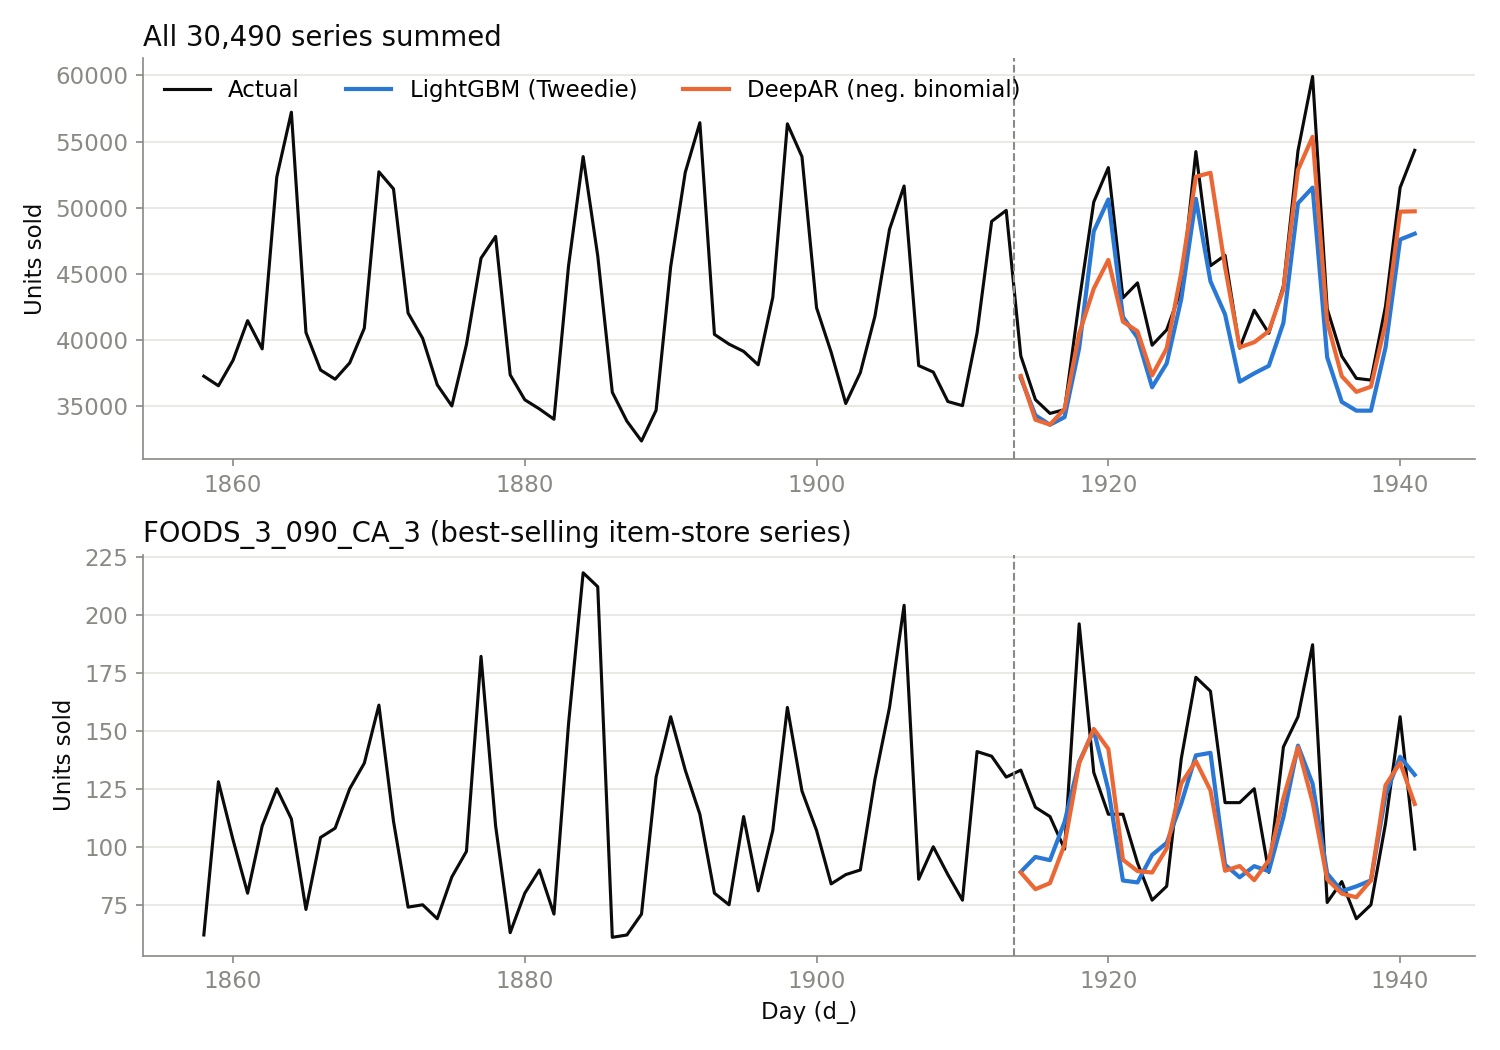
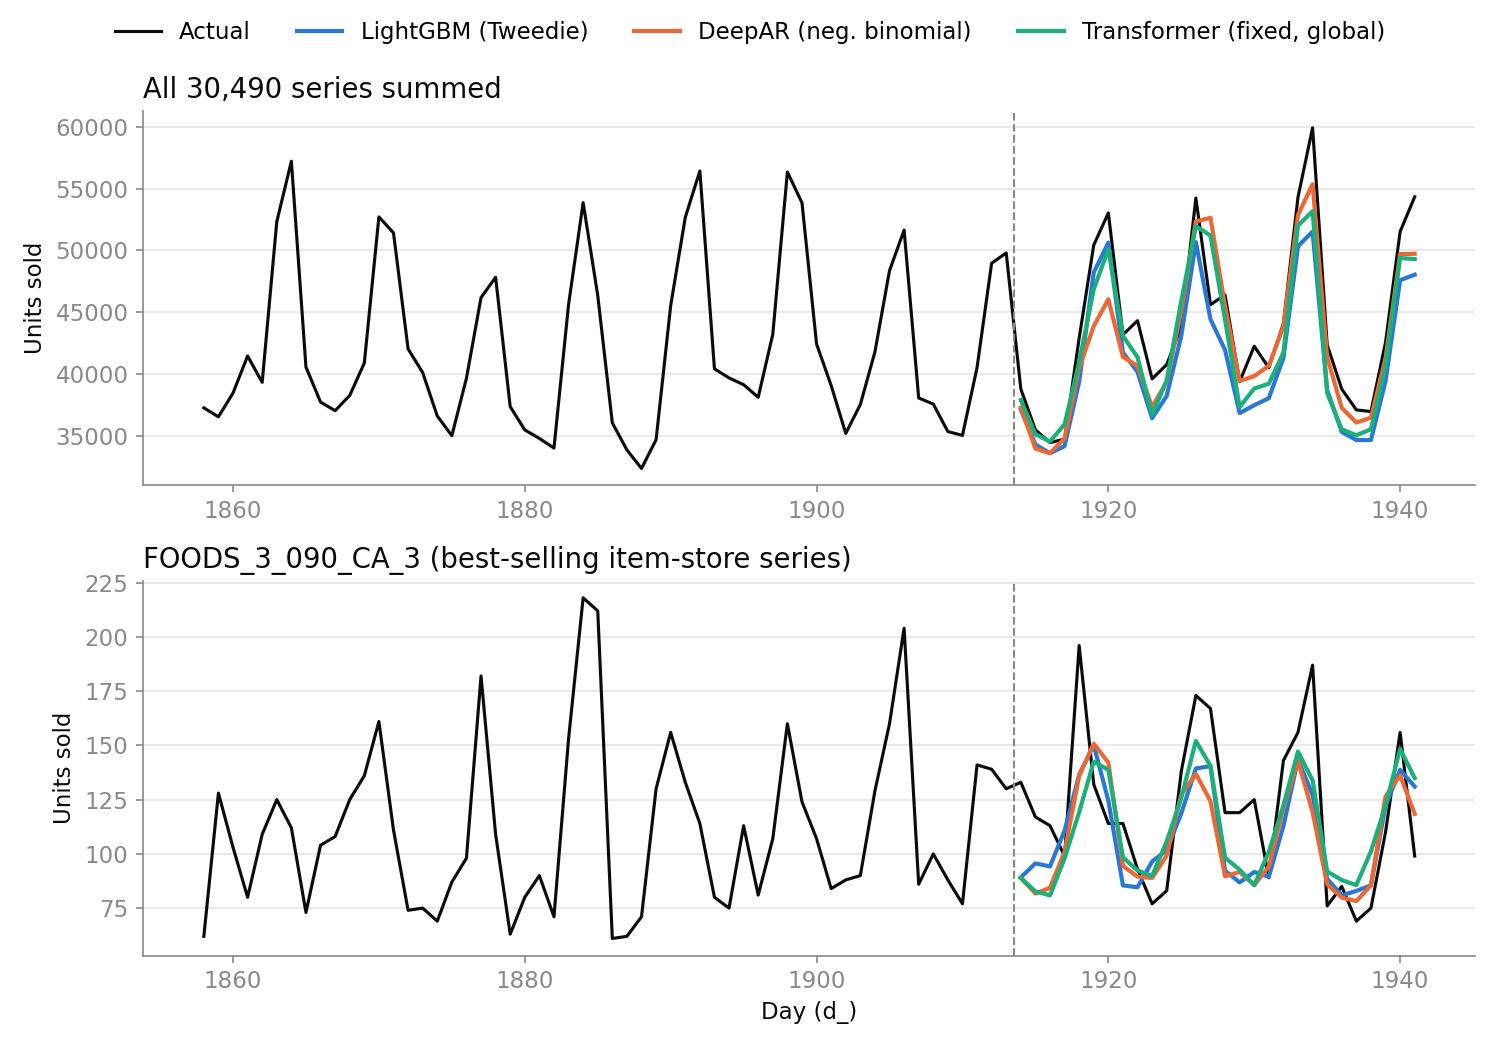
Fix the capstone Transformer and add it to the global comparison
- m5/transformer.py: attention over time (batch_first=True), direct 28-day NB forecast, trained on all series
- README: document the capstone bugs (attention across the batch, decoder on the oldest day, loss on reconstructed inputs)
- fixed Transformer scores 0.650 test WRMSSE, in line with DeepAR (0.632) and LightGBM (0.655)

diff --git a/scripts/transformer_global.py b/scripts/transformer_global.py
@@ -1,0 +1,92 @@
+"""Train the global Transformer (direct 28-day negative-binomial forecast) and score a split.
+
+    python scripts/transformer_global.py --split valid
+    python scripts/transformer_global.py --split test
+"""
+import argparse
+import time
+
+import numpy as np
+import torch
+
+from m5.data import HORIZON, SPLITS, load_sales
+from m5.deepar_nb import Arrays, nb_nll
+from m5.results import save_forecast
+from m5.transformer import TransformerNB
+
+parser = argparse.ArgumentParser()
+parser.add_argument("--split", default="valid", choices=list(SPLITS))
+parser.add_argument("--steps", type=int, default=12000)
+parser.add_argument("--batch", type=int, default=512)
+parser.add_argument("--context", type=int, default=112)
+parser.add_argument("--lr", type=float, default=3e-4)
+parser.add_argument("--seed", type=int, default=0)
+parser.add_argument("--name", default="transformer_nb")
+args = parser.parse_args()
+
+torch.manual_seed(args.seed)
+rng = np.random.default_rng(args.seed)
+device = torch.device("mps" if torch.backends.mps.is_available() else "cuda" if torch.cuda.is_available() else "cpu")
+
+sales = load_sales()
+A = Arrays(sales)
+start = SPLITS[args.split] - 1
+C, W = args.context, args.context + HORIZON
+
+model = TransformerNB(A.static[:, 0].max() + 1, A.static[:, 1].max() + 1, A.static[:, 2].max() + 1,
+                      context=C, horizon=HORIZON).to(device)
+opt = torch.optim.AdamW(model.parameters(), lr=args.lr, weight_decay=0.01)
+sched = torch.optim.lr_scheduler.OneCycleLR(opt, max_lr=args.lr, total_steps=args.steps, pct_start=0.05)
+
+earliest_t0 = A.first_sale + 1
+eligible = np.where(earliest_t0 + W <= start)[0]
+volume = A.y[eligible, :start].mean(1) + 1
+p_series = volume / volume.sum()          # same window sampling as DeepAR
+
+
+def tensor(a, dtype=torch.float32):
+    return torch.as_tensor(a, dtype=dtype, device=device)
+
+
+def batch_tensors(rows, t0):
+    """Windows rows × [t0, t0 + C + 28): past sales, level, covariates for all days, future targets."""
+    idx = t0[:, None] + np.arange(W)[None, :]
+    y = tensor(A.y[rows[:, None], idx])
+    level = y[:, :C].mean(1, keepdim=True)
+    return (y[:, :C] / (level + 1), level, tensor(A.real[rows[:, None], idx]), tensor(A.wday[idx], torch.long),
+            tensor(A.month[idx], torch.long), tensor(A.static[rows], torch.long)), y[:, C:]
+
+
+t_start = time.time()
+model.train()
+for step in range(1, args.steps + 1):
+    rows = rng.choice(eligible, args.batch, p=p_series)
+    t0 = rng.integers(earliest_t0[rows], start - W + 1)
+    inputs, target = batch_tensors(rows, t0)
+    mu, alpha = model(*inputs)
+    loss = nb_nll(target, mu, alpha).mean()
+    opt.zero_grad()
+    loss.backward()
+    torch.nn.utils.clip_grad_norm_(model.parameters(), 1.0)
+    opt.step()
+    sched.step()
+    if step % 500 == 0:
+        print(f"step {step:6d}  nll {loss.item():.4f}  {time.time() - t_start:.0f}s", flush=True)
+
+
+@torch.no_grad()
+def forecast(chunk=512):
+    """Direct forecast: the NB mean for each of the 28 days (no autoregressive rollout needed)."""
+    model.eval()
+    out = np.zeros((len(sales), HORIZON), np.float32)
+    for lo in range(0, len(sales), chunk):
+        rows = np.arange(lo, min(lo + chunk, len(sales)))
+        # the target slice past LAST_DAY is never used; covariates for the forecast days are known
+        inputs, _ = batch_tensors(rows, np.full(len(rows), start - C))
+        mu, _ = model(*inputs)
+        out[rows] = mu.cpu().numpy()
+    return out
+
+
+save_forecast(sales, args.name, args.split, forecast())
+torch.save(model.state_dict(), f"results/{args.name}_{args.split}.pt")

diff --git a/m5/transformer.py b/m5/transformer.py
@@ -1,0 +1,49 @@
+"""Global Transformer encoder forecaster (the capstone's model, fixed and trained across all series).
+
+The sequence is 112 past days followed by 28 future days. Past tokens carry scaled sales; future tokens
+carry only what is known in advance (calendar, prices, SNAP) plus a flag. Self-attention runs over the
+time axis (batch_first=True), and the 28 future tokens are decoded directly into negative-binomial
+parameters, using the same μ parameterization as m5/deepar_nb.py so the two models differ only in
+architecture.
+
+Capstone bugs this fixes:
+  * nn.TransformerEncoderLayer defaulted to batch_first=False while inputs were (batch, time, features),
+    so attention mixed the 10 windows in a batch instead of the 196 days of a window;
+  * the forecast was decoded from x[:, -196, :], i.e. the oldest day of the window only;
+  * the loss covered all 224 outputs (196 reconstructed inputs + 28 forecasts).
+"""
+import torch
+import torch.nn as nn
+import torch.nn.functional as F
+
+
+class TransformerNB(nn.Module):
+    def __init__(self, n_items, n_depts, n_stores, n_real=5, context=112, horizon=28,
+                 d_model=64, nhead=4, layers=3, dropout=0.1):
+        super().__init__()
+        self.context, self.horizon = context, horizon
+        self.item = nn.Embedding(n_items, 16)
+        self.dept = nn.Embedding(n_depts, 4)
+        self.store = nn.Embedding(n_stores, 4)
+        self.wday = nn.Embedding(7, 3)
+        self.month = nn.Embedding(12, 3)
+        n_in = 1 + 1 + 1 + n_real + 3 + 3 + 16 + 4 + 4   # sales, is_future, log level, covariates, embeddings
+        self.proj = nn.Linear(n_in, d_model)
+        self.pos = nn.Parameter(torch.randn(context + horizon, d_model) * 0.02)
+        layer = nn.TransformerEncoderLayer(d_model, nhead, 4 * d_model, dropout, batch_first=True, norm_first=True)
+        self.encoder = nn.TransformerEncoder(layer, layers)
+        self.head = nn.Linear(d_model, 3)
+
+    def forward(self, sales_scaled, level, real, wday, month, static):
+        """sales_scaled: (B, context) past sales / (level + 1); real/wday/month cover context + horizon."""
+        B, T = real.shape[:2]
+        sales = torch.cat([sales_scaled, sales_scaled.new_zeros(B, self.horizon)], 1).unsqueeze(-1)
+        is_future = torch.cat([real.new_zeros(B, self.context), real.new_ones(B, self.horizon)], 1).unsqueeze(-1)
+        s = torch.cat([self.item(static[:, 0]), self.dept(static[:, 1]), self.store(static[:, 2])], -1)
+        x = torch.cat([sales, is_future, torch.log1p(level).expand(-1, T).unsqueeze(-1), real,
+                       self.wday(wday), self.month(month), s.unsqueeze(1).expand(-1, T, -1)], -1)
+        h = self.encoder(self.proj(x) + self.pos)[:, -self.horizon:]
+        out = self.head(h)
+        mu = F.softplus(out[..., 0] + 0.5413) * level + F.softplus(out[..., 2] - 3)
+        alpha = F.softplus(out[..., 1]) / (level + 1).sqrt() + 1e-4
+        return mu, alpha

diff --git a/scripts/plots.py b/scripts/plots.py
@@ -9,7 +9,8 @@ from m5.data import HORIZON, RESULTS_DIR, SPLITS, load_sales, sales_matrix
 
 ASSETS = RESULTS_DIR.parent / "assets"
 INK, MUTED, GRID = "#0b0b0b", "#8a8984", "#e6e5e1"
-SERIES = {"lightgbm_tweedie": ("LightGBM (Tweedie)", "#2a78d6"), "deepar_nb": ("DeepAR (neg. binomial)", "#eb6834")}
+SERIES = {"lightgbm_tweedie": ("LightGBM (Tweedie)", "#2a78d6"), "deepar_nb": ("DeepAR (neg. binomial)", "#eb6834"),
+          "transformer_nb": ("Transformer (fixed, global)", "#1baf7a")}
 LABELS = {"zeros": "All zeros", "naive": "Naive (last day)", "seasonal_naive": "Seasonal naive",
           "moving_avg_28": "28-day moving average", "lightgbm_l2": "LightGBM (MSE loss)",
           **{k: v[0] for k, v in SERIES.items()}}
@@ -55,15 +56,18 @@ for ax, (title, pick) in zip(axes, panels):
     ax.set_title(title, loc="left", color=INK)
     ax.yaxis.grid(True, color=GRID)
     ax.set_ylabel("Units sold")
-axes[0].legend(frameon=False, loc="upper left", ncol=3)
+handles, labels = axes[0].get_legend_handles_labels()
+fig.legend(handles, labels, frameon=False, loc="upper center", ncol=len(labels))
 axes[1].set_xlabel("Day (d_)")
-fig.tight_layout()
+fig.tight_layout(rect=(0, 0, 1, 0.95))
 fig.savefig(ASSETS / "forecasts_test.png", dpi=150)
 
 # 3. single-item RMSE, same item and 28 days as the capstone notebooks
 actual = y[item, start:start + HORIZON]
 rows = {"Transformer, pretrained + fine-tuned (capstone)": 1.2406}
 for m in ["moving_avg_28", "seasonal_naive", *SERIES]:
+    if not (RESULTS_DIR / "forecasts" / f"{m}_test.npy").exists():
+        continue
     f = np.load(RESULTS_DIR / "forecasts" / f"{m}_test.npy")[item]
     rows[LABELS[m]] = float(np.sqrt(((actual - f) ** 2).mean()))
 print("| Model | RMSE |\n|---|---|")

diff --git a/README.md b/README.md
@@ -11,7 +11,8 @@ UC Berkeley capstone (2023–2024) on deep-learning forecasting for the **M5 Wal
   28-day moving average** on that item (RMSE 1.24 vs 1.08). It was also only ever evaluated on that single item.
 - The follow-up evaluates every model on **all 30,490 series with the official M5 metric (WRMSSE)**, against simple
   baselines. There, **global models** (one model trained across all series) beat seasonal naive by **23–27%**.
-- A global **DeepAR** with a negative-binomial likelihood and a global **LightGBM** end up roughly tied (0.63–0.67).
+- A global **DeepAR** (LSTM), the **capstone Transformer with its bugs fixed** and trained globally, and a global
+  **LightGBM** all end up roughly tied (0.63–0.67). Attention did not beat the LSTM or the trees here.
 
 ![Test WRMSSE by model](assets/wrmsse_test.png)
 
@@ -23,6 +24,7 @@ Lower is better; WRMSSE averages 12 aggregation levels, from total sales down to
 | Model | Valid WRMSSE | Test WRMSSE | vs. seasonal naive (test) |
 |---|---|---|---|
 | **DeepAR, negative binomial** (seed 0 / seed 1) | 0.545 / – | **0.632 / 0.662** | −27% / −24% |
+| **Transformer, fixed and global** | 0.574 | **0.650** | −25% |
 | **LightGBM, MSE loss** | 0.532 | **0.655** | −25% |
 | **LightGBM, Tweedie loss** | 0.520 | **0.671** | −23% |
 | Seasonal naive (repeat last week) | 0.923 | 0.870 | – |
@@ -35,13 +37,14 @@ implementation, the naive and seasonal-naive scores match the values commonly re
 ![Forecasts vs actuals](assets/forecasts_test.png)
 
 **What the numbers say**
-- **Global training is what matters.** Both global models are far ahead of the baselines, and the gap between them
-  (0.63 vs 0.67) is about the same size as DeepAR's seed-to-seed variation (0.632 vs 0.662).
+- **Global training is what matters, not the architecture.** All three global models are far ahead of the
+  baselines, and the spread between them (0.63–0.67) is about the same size as DeepAR's seed-to-seed variation
+  (0.632 vs 0.662). The fixed Transformer (attention over time) lands in the middle of that band.
 - **The loss function mattered less than expected.** Tweedie is the textbook choice for zero-heavy counts, but LightGBM
   with plain MSE did slightly better on test (0.655 vs 0.671) and slightly worse on validation. Loss was not the main problem.
 - **On a single high-volume series, the gain is small.** For the best seller (bottom panel above), both models
-  track the weekly cycle but are roughly level with seasonal naive (RMSE 26.8 LightGBM, 28.4 DeepAR, 26.6 seasonal
-  naive, 35.6 moving average). The advantage comes from being consistently good across all 30,490 series.
+  track the weekly cycle but are roughly level with seasonal naive (RMSE 26.8 LightGBM, 27.9 Transformer, 28.4 DeepAR,
+  26.6 seasonal naive, 35.6 moving average). The advantage comes from being consistently good across all 30,490 series.
 - **One sparse item can't rank models.** On the capstone's example item, every model forecasts roughly the item's
   average level:
 
@@ -49,6 +52,7 @@ implementation, the naive and seasonal-naive scores match the values commonly re
   |---|---|
   | 28-day moving average | 1.08 |
   | DeepAR, negative binomial (global) | 1.13 |
+  | Transformer, fixed (global) | 1.13 |
   | LightGBM, Tweedie (global) | 1.15 |
   | Transformer, pretrained + fine-tuned (capstone) | 1.24 |
   | Seasonal naive | 1.66 |
@@ -64,6 +68,21 @@ implementation, the naive and seasonal-naive scores match the values commonly re
 | Judged by a plot and RMSE on one item | WRMSSE on all series, 12 aggregation levels (`m5/wrmsse.py`) |
 | No baselines | Naive, seasonal naive, moving average |
 | No separate validation set | Validation split for tuning; test touched once per model |
+
+**Why the capstone Transformer produced a flat line.** Re-reading the notebooks turned up three bugs in the model
+itself:
+1. **Attention ran across the batch, not across time.** Inputs were `(batch, 196 days, features)`, but
+   `nn.TransformerEncoderLayer` was left at its default `batch_first=False` (notebooks 03–07), so it treated the
+   batch as the sequence.
+   Self-attention mixed the 10 random windows in each batch and never compared days within a window, and the
+   positional encoding was indexed by batch position instead of day.
+2. **The forecast was decoded from the oldest day.** `self.decoder(x[:, -196, :])` (notebooks 04–07) picks index
+   −196 of a 196-day window, i.e. day 0, the one furthest from the forecast period.
+3. **Most of the loss was spent reconstructing the input.** The model output 224 values (196 input days + 28
+   forecast days) and the MSE loss covered all of them.
+
+With no access to recent days, the best the model could do was predict the item's average, which is the flat
+line in the capstone chart (see [The original capstone](#the-original-capstone)). The fixed version, trained globally, is in `m5/transformer.py` (results above).
 
 **Debugging notes from getting DeepAR to work.** The first global DeepAR scored 2.47, worse than naive. The causes were:
 1. **A price outlier.** The raw week-over-week price ratio reached 897× for one item. It is now a log ratio clipped to ±1.
@@ -84,11 +103,13 @@ implementation, the naive and seasonal-naive scores match the values commonly re
 │   ├── wrmsse.py                official M5 metric over all 12 aggregation levels
 │   ├── features.py              LightGBM features (every sales feature lagged ≥ 28 days → direct 28-day forecast)
 │   ├── deepar_nb.py             global DeepAR with a negative-binomial likelihood
+│   ├── transformer.py           the capstone Transformer, fixed: attention over time, direct 28-day NB forecast
 │   └── results.py               saves forecasts, appends scores to results/metrics.csv
 ├── scripts/
 │   ├── baselines.py             naive, seasonal naive, moving average
 │   ├── lgbm.py                  global LightGBM (--loss tweedie | l2)
 │   ├── deepar_global.py         train + sample-based forecast for DeepAR
+│   ├── transformer_global.py    train + direct forecast for the Transformer
 │   └── plots.py                 README figures and the single-item table
 ├── results/metrics.csv          every score in this README
 ├── deepar/                      capstone: DeepAR code adapted from zhykoties/TimeSeries (Gaussian likelihood)
@@ -110,6 +131,8 @@ python scripts/lgbm.py --loss tweedie                    # 10–20 min on 10 CPU
 python scripts/lgbm.py --loss l2
 python scripts/deepar_global.py --split valid            # ~15 min on an M2 Pro (MPS)
 python scripts/deepar_global.py --split test
+python scripts/transformer_global.py --split valid       # ~1 h on an M2 Pro (MPS)
+python scripts/transformer_global.py --split test
 python scripts/plots.py
 ```
 
@@ -124,7 +147,7 @@ heads, and pretraining on the same item across 4 California stores before fine-t
 
 ![Capstone Transformer forecast](assets/transformer_pretrained.png)
 *The capstone's pretrained + fine-tuned Transformer on `HOBBIES_1_005_CA_1`. It captures the average level but none
-of the spikes, and scores worse than a moving average (see above).*
+of the spikes, and scores worse than a moving average. See "Why the capstone Transformer produced a flat line" above.*
 
 | Notebook | Contents |
 |---|---|
